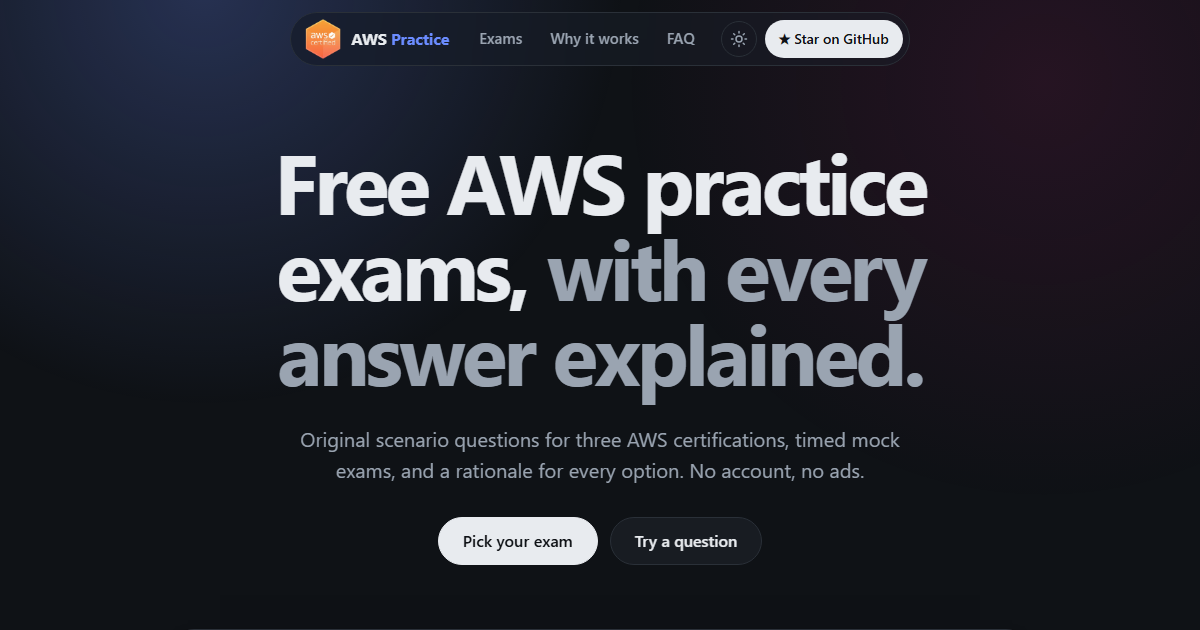
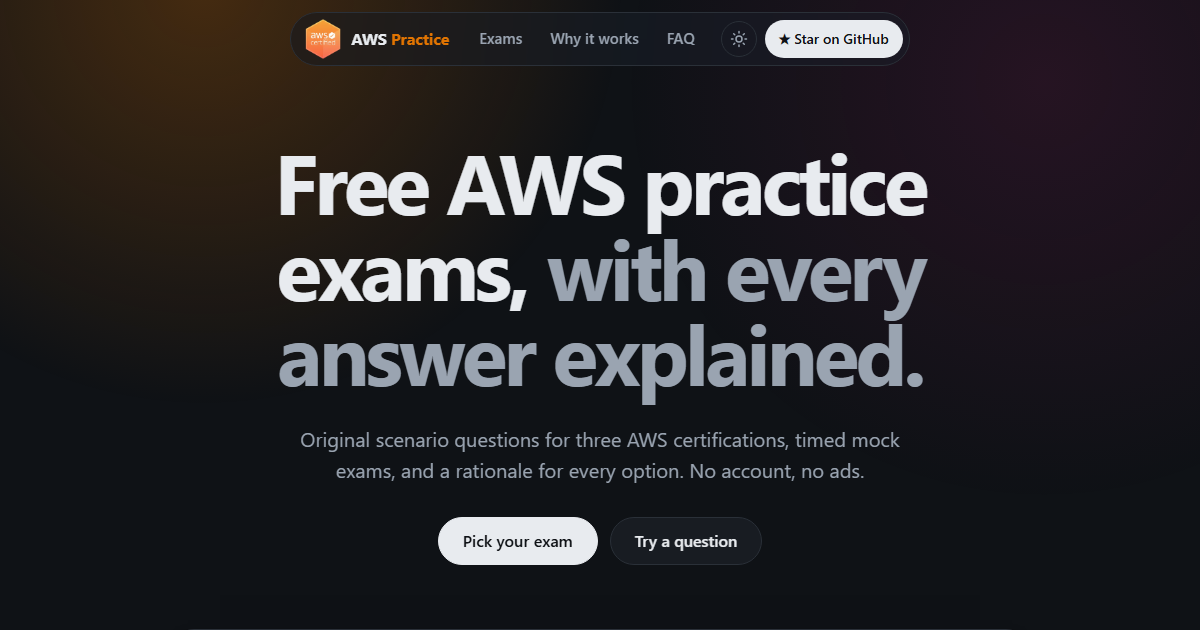
Match the theme colour to the badge

Changed region(s): [[0.0, 0.0, 0.4008, 0.4222]]

diff --git a/style.css b/style.css
@@ -1,7 +1,8 @@
-/* Same tokens, type and shapes as the exam sites, so the hub and the exams read as one family. Direction: DESIGN.md. */
+/* Same tokens, type and shapes as the exam sites, so the hub and the exams read as one family. Direction: DESIGN.md.
+   Each site takes its accent from its badge: the hub is orange, Associate blue, Business pink, Specialty purple. */
 :root {
   --bg: #f6f7f9; --card: #fff; --ink: #1b1f24; --muted: #5b6573; --line: #dde1e6;
-  --accent: #2f5bea; --accent-ink: #fff; --ok: #1a7f4b; --ok-bg: #e6f4ec; --bad: #b42318; --bad-bg: #fdecea;
+  --accent: #a45408; --accent-ink: #fff; --ok: #1a7f4b; --ok-bg: #e6f4ec; --bad: #b42318; --bad-bg: #fdecea;
   --glass: rgb(255 255 255 / .72); --shadow: rgb(20 30 60 / .18);
   --ease: cubic-bezier(.2, .8, .2, 1);
   color-scheme: only light;
@@ -9,7 +10,7 @@
 /* index.html sets data-theme before first paint: the saved choice, else the system theme. */
 :root[data-theme="dark"] {
   --bg: #0f1216; --card: #181c22; --ink: #e8ebef; --muted: #9aa4b1; --line: #2a3038;
-  --accent: #6b8cff; --accent-ink: #0f1216; --ok: #5bd394; --ok-bg: #12291d; --bad: #ff8a80; --bad-bg: #2e1614;
+  --accent: #e07402; --accent-ink: #0f1216; --ok: #5bd394; --ok-bg: #12291d; --bad: #ff8a80; --bad-bg: #2e1614;
   --glass: rgb(24 28 34 / .72); --shadow: rgb(0 0 0 / .5);
   color-scheme: dark;
 }
